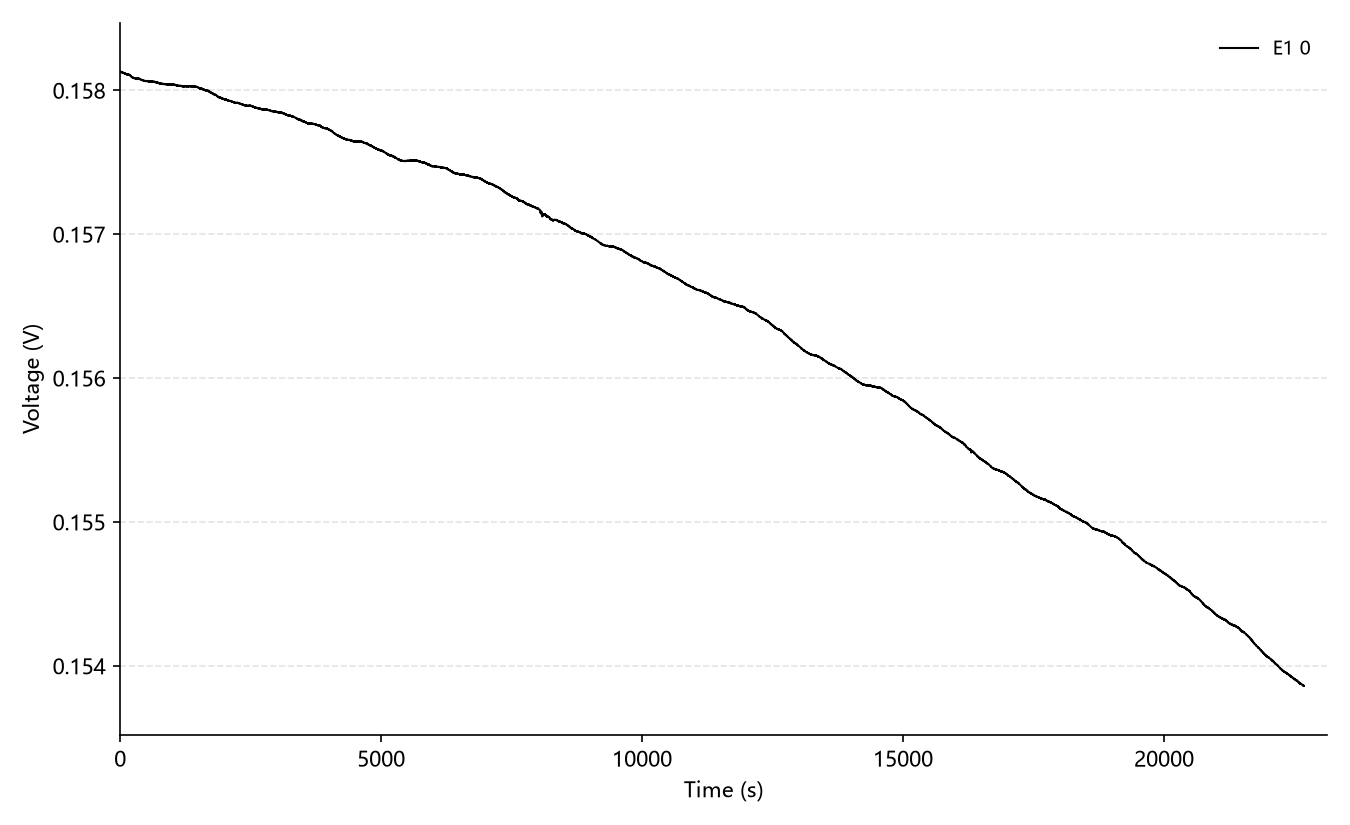
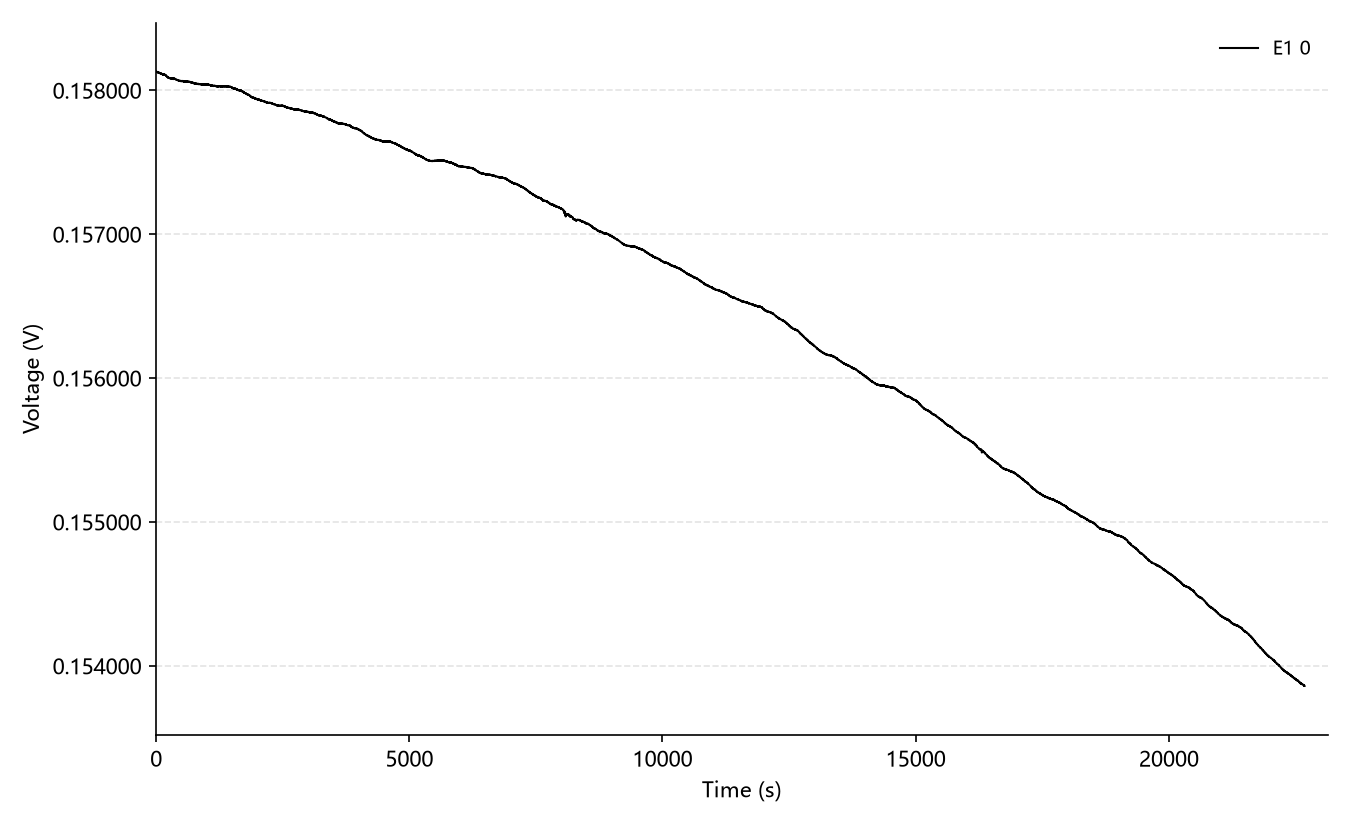
Add configurable y-axis precision

diff --git a/plot_data.py b/plot_data.py
@@ -99,7 +99,7 @@ def load_input(path, sheet_name=None):
     return df.dropna(), detect_ylabel(value_col)
 
 
-def draw_chart(series_list, labels, ylabel, output):
+def draw_chart(series_list, labels, ylabel, precision, output):
     max_len = max(len(series) for series in series_list)
     y_min = min(series.min() for series in series_list)
     y_max = max(series.max() for series in series_list)
@@ -128,6 +128,7 @@ def draw_chart(series_list, labels, ylabel, output):
     ax.set_xticks(ticks)
     ax.set_xlabel("Time (s)")
     ax.set_ylabel(ylabel)
+    ax.yaxis.set_major_formatter(mticker.FormatStrFormatter(f"%.{precision}f"))
     ax.grid(axis="y", linestyle="--", alpha=0.35)
     ax.legend(frameon=False, fontsize=9)
     for spine in ["top", "right"]:
@@ -158,6 +159,12 @@ def main():
         help="Treat every sheet in each Excel file as a separate series",
     )
     parser.add_argument("--output", type=Path, default=Path("output/data_chart.png"))
+    parser.add_argument(
+        "--precision",
+        type=int,
+        default=6,
+        help="Decimal places shown on the y-axis, e.g. 6 for 0.000001",
+    )
     args = parser.parse_args()
 
     files = discover_inputs(args.input)
@@ -189,7 +196,8 @@ def main():
 
     output = Path(args.output)
     output.parent.mkdir(parents=True, exist_ok=True)
-    draw_chart(series_list, labels, ylabel, output)
+    draw_chart(series_list, labels, ylabel, args.precision, output)
+    print(f"Precision: {args.precision} decimal places")
     print("Chart written to", output.resolve())
 
 

diff --git a/README.md b/README.md
@@ -13,8 +13,10 @@ pip install -r requirements.txt
 画一个文件：
 
 ```bash
-python plot_data.py --input "8.12，E1 0.xlsx" --label "E1 0"
+python plot_data.py --input "8.12，E1 0.xlsx" --label "E1 0" --precision 6
 ```
+
+`--precision` 是纵轴刻度的小数位数，例如 `6` 表示精确到 `0.000001`，能更清楚显示细微数据变化；改成 `3` 就是原来的 `0.001` 精度。
 
 同时画多个文件：
 
@@ -39,6 +41,7 @@ python plot_data.py --input "数据.xlsx" --all-sheets
 - 纵坐标：根据数据列名自动识别，例如 `Voltage (V)`、`Current (A)`、`Temperature (C)`
 - 图例：默认使用文件名；Excel 多表使用“文件名 - 表名”，也可以用 `--label` 指定
 - 横坐标：按采样点序号显示，从 `0` 到数据总数，末尾留一点余量
+- 精度：用 `--precision` 手动设置纵轴小数位数，精度越高越能体现数据变化
 
 ## 输出
 
